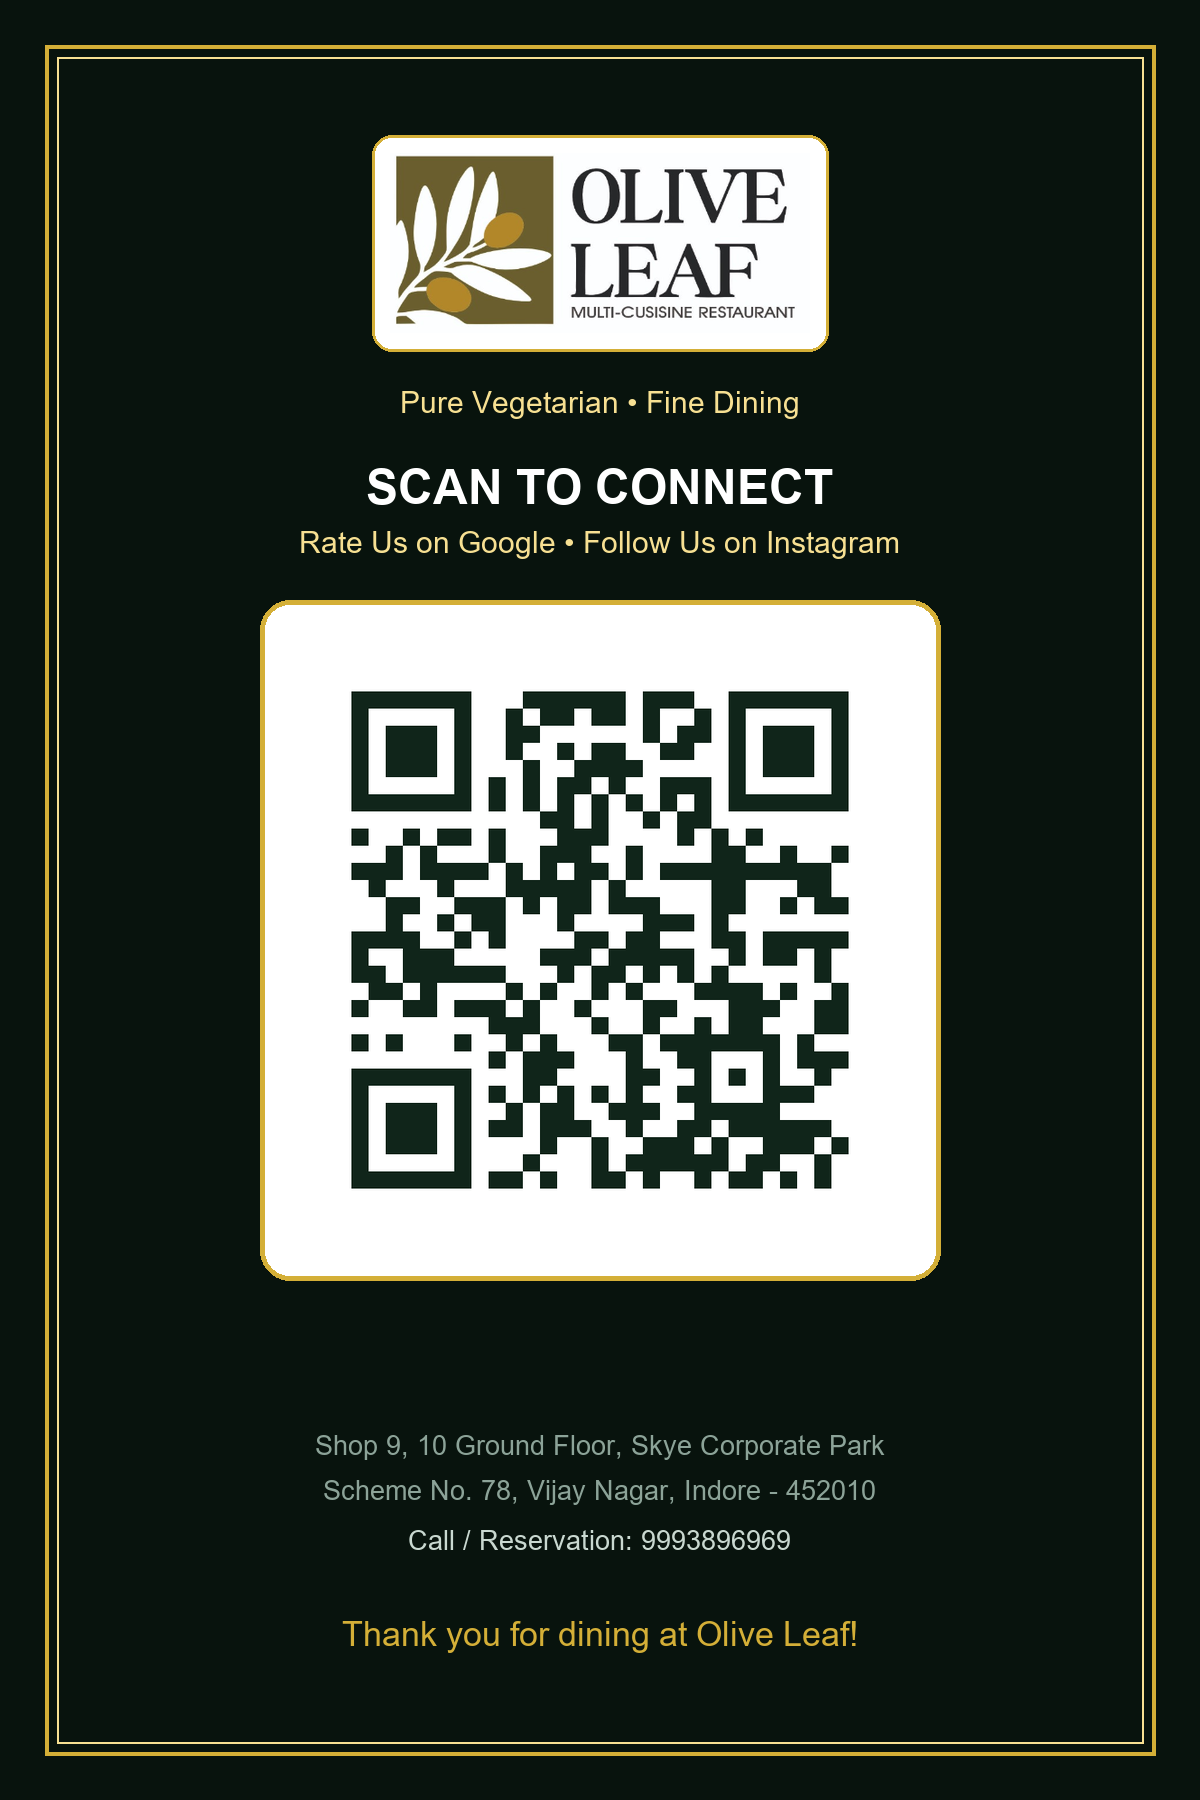
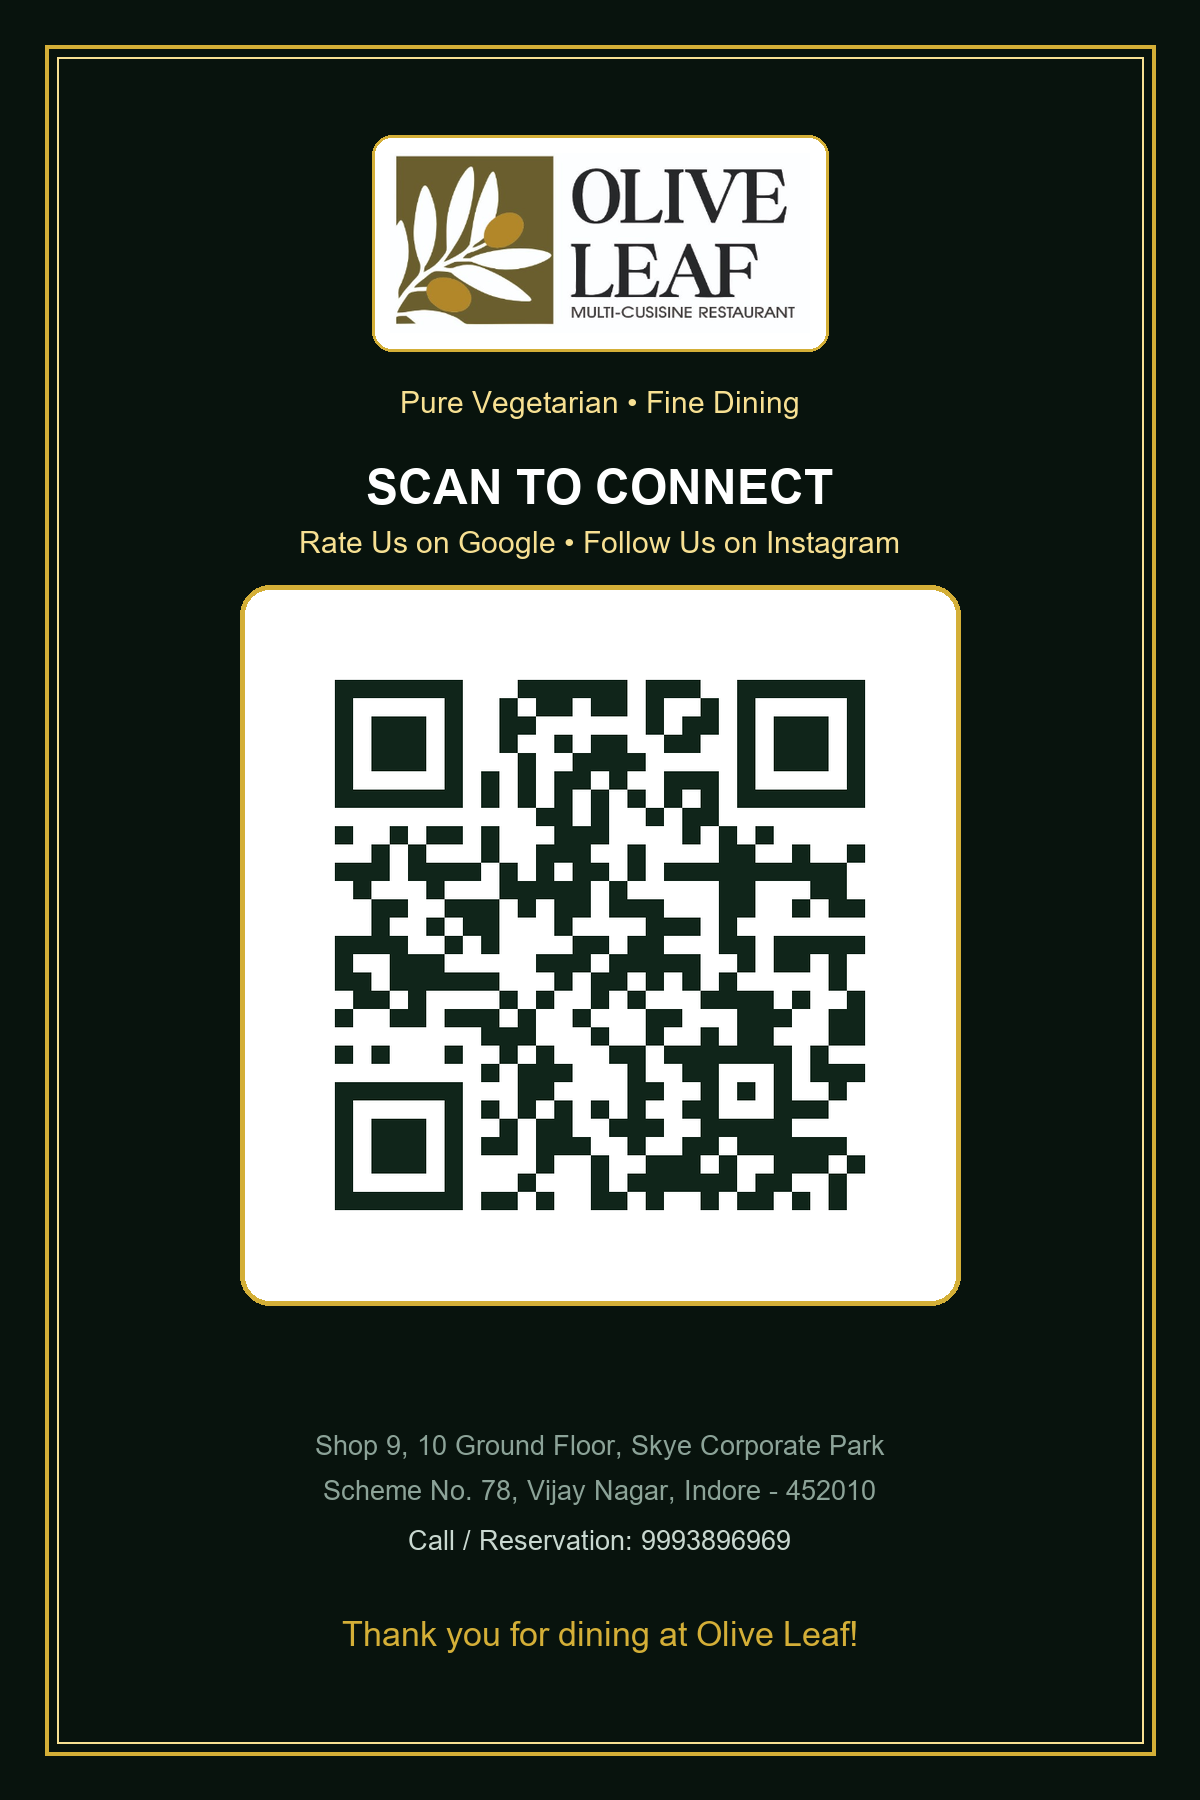
Increase QR code size by ~7% on standee

Changed region(s): [[0.185, 0.3111, 0.8017, 0.7467]]

diff --git a/standee.html b/standee.html
@@ -150,8 +150,8 @@
             border-radius: 18px;
             border: 3px solid #d4af37;
             box-shadow: 0 10px 25px rgba(0,0,0,0.5);
-            width: 230px;
-            height: 230px;
+            width: 246px;
+            height: 246px;
             display: flex;
             align-items: center;
             justify-content: center;

diff --git a/generate_qr.py b/generate_qr.py
@@ -124,10 +124,10 @@ def generate_standee_card(qr_img, cfg):
     isb = draw.textbbox((0, 0), inst_sub, font=sub_font)
     draw.text(((w - (isb[2] - isb[0])) // 2, 525), inst_sub, fill="#f7e092", font=sub_font)
 
-    # 3. Main QR Code in White Rounded Card (Balanced size & position)
-    qr_card_size = 680
+    # 3. Main QR Code in White Rounded Card (Increased by ~6-7%)
+    qr_card_size = 720
     qr_card_x = (w - qr_card_size) // 2
-    qr_card_y = 600
+    qr_card_y = 585
     
     draw.rounded_rectangle(
         [qr_card_x, qr_card_y, qr_card_x + qr_card_size, qr_card_y + qr_card_size],
@@ -137,7 +137,7 @@ def generate_standee_card(qr_img, cfg):
         width=5
     )
 
-    qr_display_size = 600
+    qr_display_size = 640
     qr_resized = qr_img.resize((qr_display_size, qr_display_size), Image.Resampling.LANCZOS)
     qr_pos_x = qr_card_x + (qr_card_size - qr_display_size) // 2
     qr_pos_y = qr_card_y + (qr_card_size - qr_display_size) // 2
